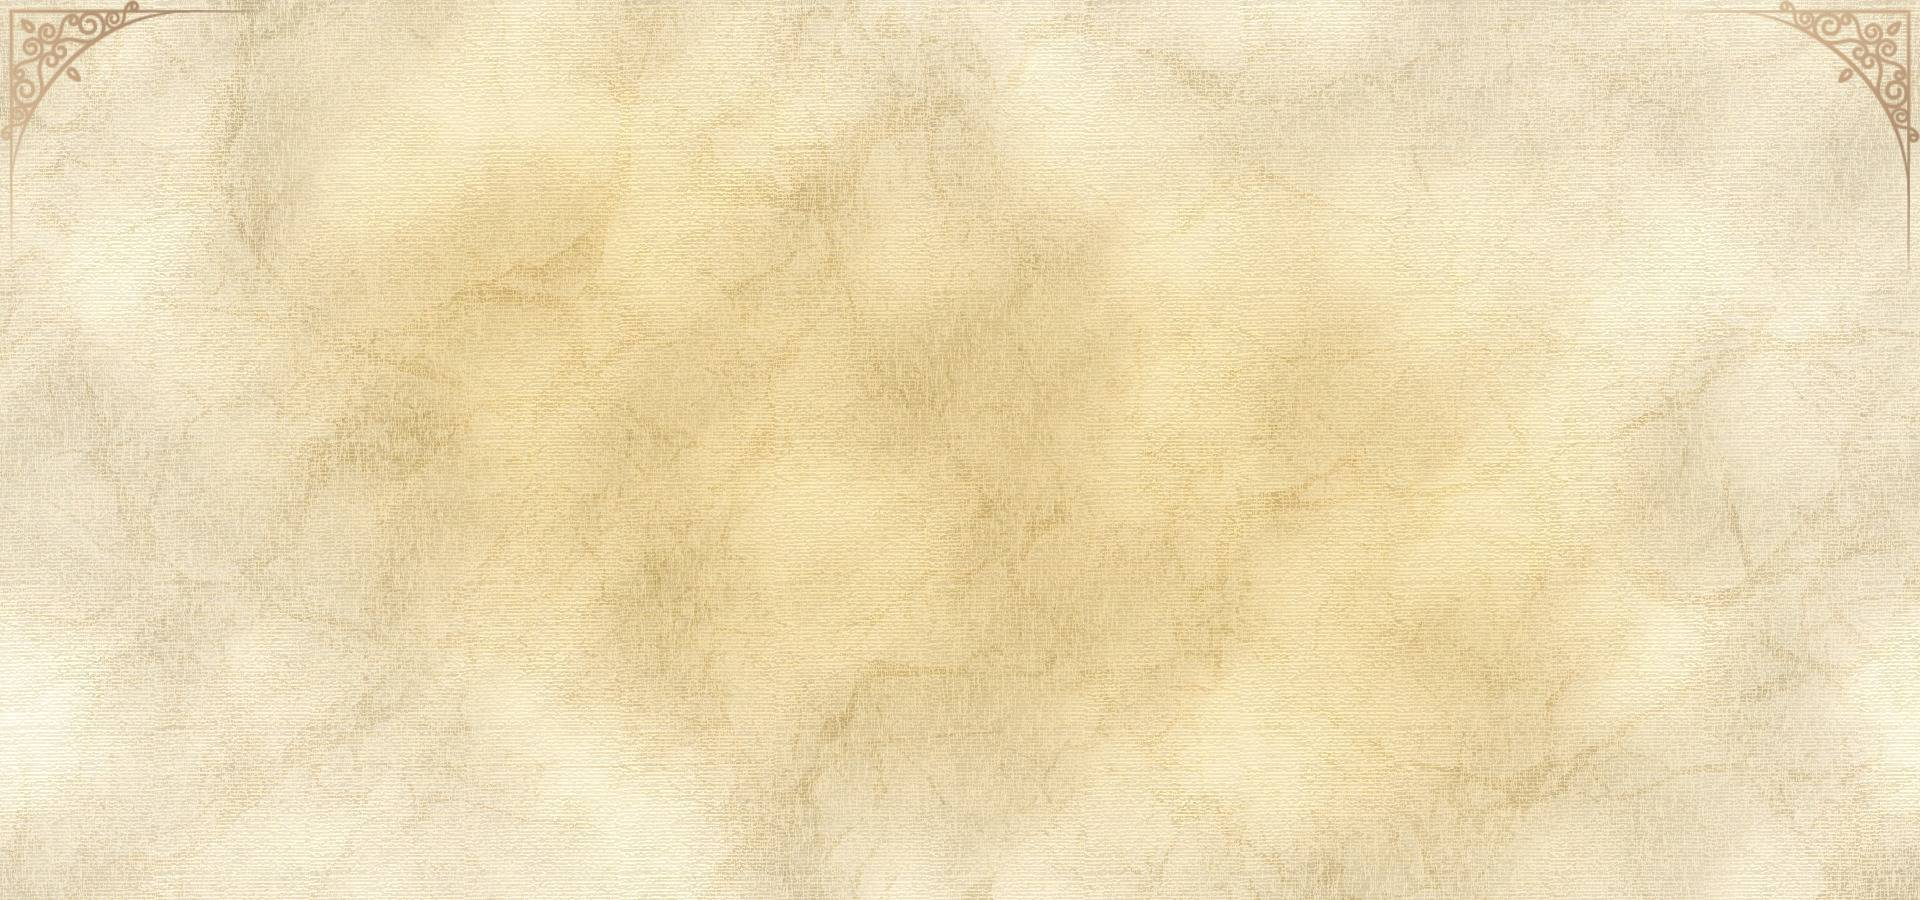
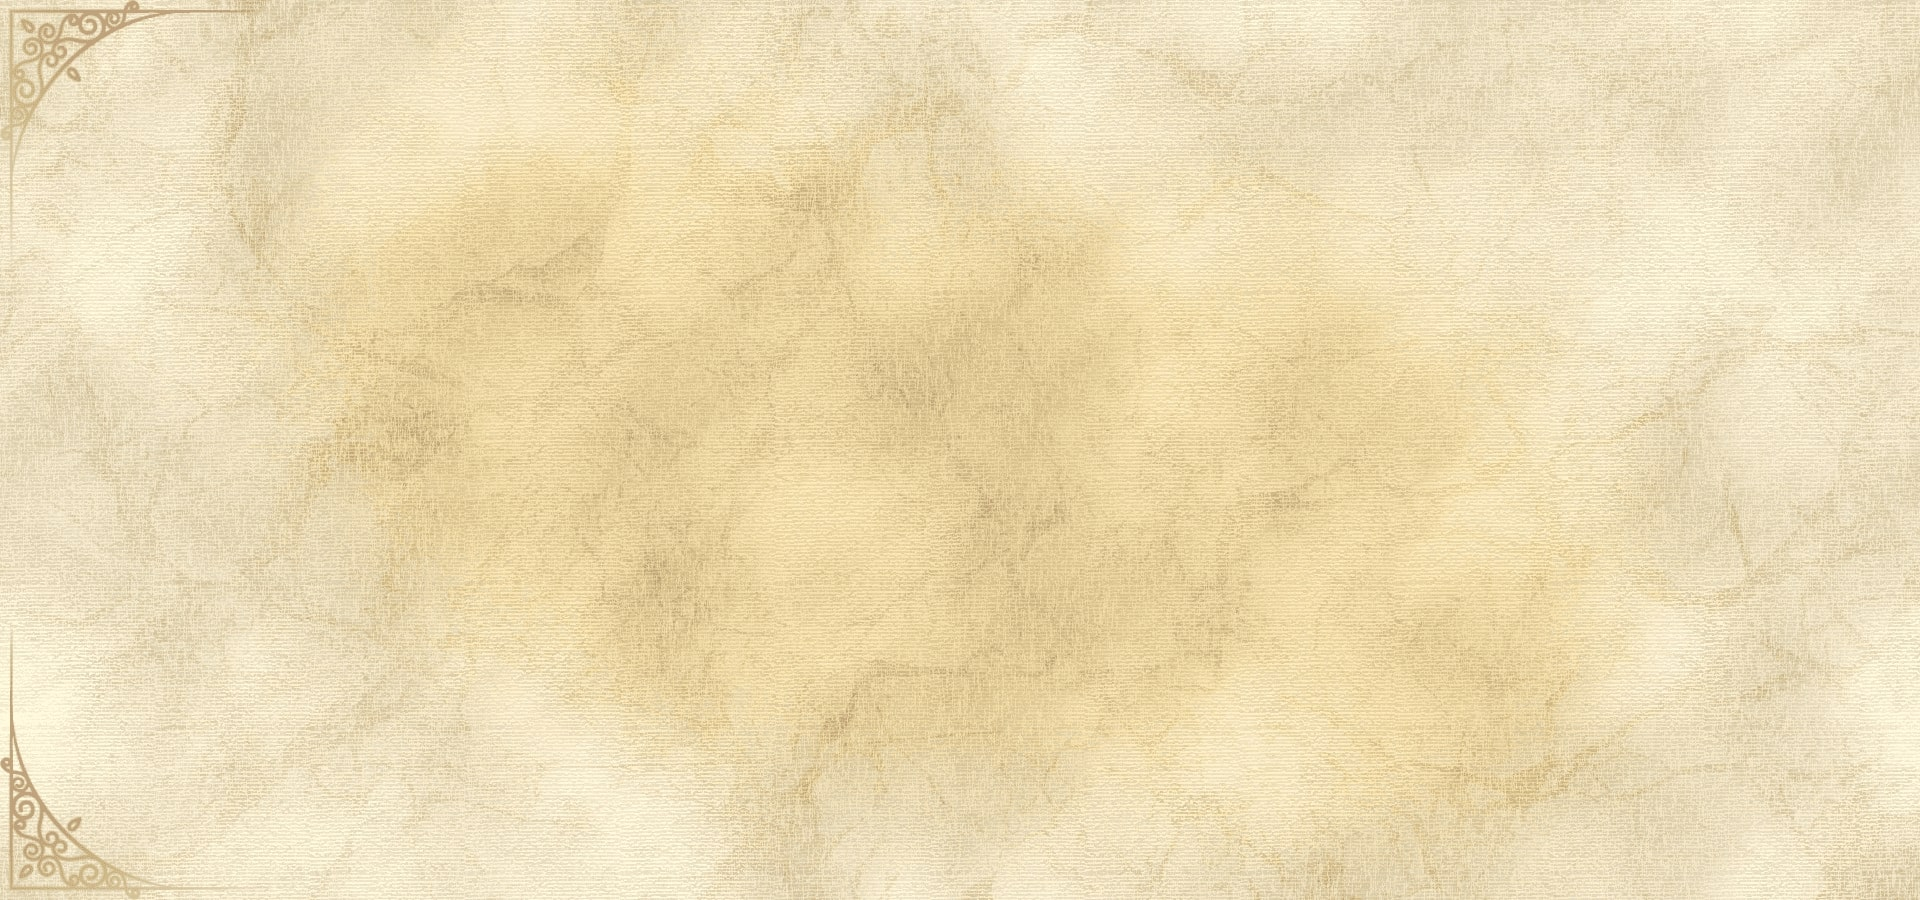
Init commit

Changed region(s): [[0.0, 0.8089, 0.0938, 1.0], [0.9062, 0.0, 1.0, 0.1867]]

diff --git a/resources/views/site/index.blade.php b/resources/views/site/index.blade.php
@@ -9,7 +9,7 @@
 
         <div class="flex">
             <div class="grow">
-                <h1 class="font-montserrat text-lg md:text-xl text-center font-semibold">{{ $history?->{'title_'.app()->getLocale()} }}</h1>
+                <h1 class="font-montserrat text-lg md:text-xl text-center font-semibold uppercase">{{ $history?->{'title_'.app()->getLocale()} }}</h1>
                 <hr class="mx-auto w-96 my-6">
             </div>
             <div class="sm:w-52 md:w-80 hidden sm:block">

diff --git a/resources/views/layouts/user/header.blade.php b/resources/views/layouts/user/header.blade.php
@@ -1,5 +1,5 @@
 <div class="h-64">
-    <div class="h-64 w-full" style="background-image: url({{asset('/img/bg-header.png')}})">
+    <div class="h-64 w-full" style="background-image: url({{asset('/img/bg-header.jpg')}})">
         <div class="container mx-auto h-full">
             <div class="flex flex-col h-full justify-center items-center sm:justify-between sm:flex-row">
                 <div class="font-matura text-gray-600 mt-10 sm:mt-0">
